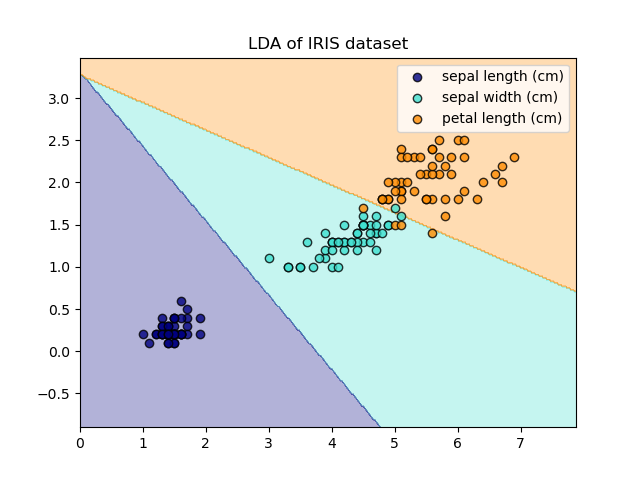
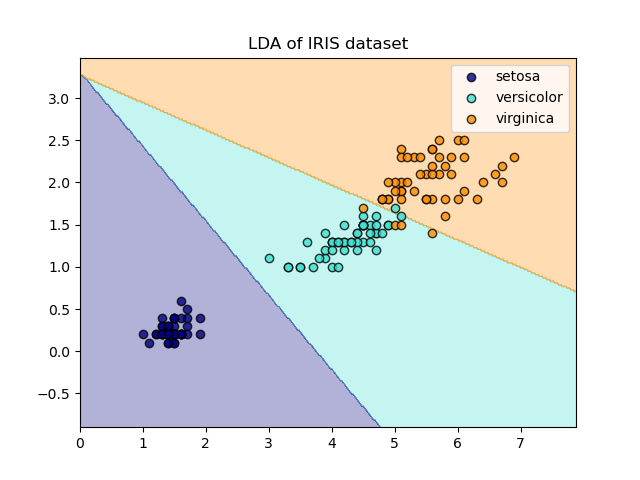
Ajustes nos labels

Changed region(s): [[0.5938, 0.125, 0.875, 0.2812]]

diff --git a/Exercicio 7/Aprendizado_Estatistico.py b/Exercicio 7/Aprendizado_Estatistico.py
@@ -34,7 +34,7 @@ def last_square(X_train, X_test, y_train, y_test):
 
 
 ############### PCA Utilizando dois componentes principais ######################
-def pca(X, y,features):
+def pca(X, y,features, label_names):
     print("PCA")
     plt.figure()
 
@@ -52,7 +52,7 @@ def pca(X, y,features):
     n = coeficiente.shape[0]
 
     # Plot do gráfico resultante do PCA
-    for color, i, target_name in zip(['navy', 'turquoise', 'darkorange'], [0, 1, 2], features):
+    for color, i, target_name in zip(['navy', 'turquoise', 'darkorange'], [0, 1, 2], label_names):
         plt.scatter(X_r[y == i, 0], X_r[y == i, 1],  alpha=.8, color=color, lw=2,
                 label=target_name,edgecolors='black')
     
@@ -69,7 +69,7 @@ def pca(X, y,features):
 
 
 ############### LDA Utilizando dois componentes principais ######################
-def lda(X, y, target_names):
+def lda(X, y, target_names, label_names):
     print("LDA")
     lda = LinearDiscriminantAnalysis(n_components=2)
     X_r2 = lda.fit(X, y)
@@ -92,14 +92,14 @@ def lda(X, y, target_names):
     plt.contourf(xp_lda, yp_lda, pred_lda, alpha = 0.3, cmap=cmap)
     
     # Plot do gráfico resultante do LDA
-    for color, i, target_name in zip(colors, [0, 1, 2], target_names):
+    for color, i, target_name in zip(colors, [0, 1, 2], label_names):
         plt.scatter(X[y == i, 0], X[y == i, 1], alpha=.8, color=color,
                     label=target_name, edgecolors='black')
     plt.legend(loc='best', shadow=False, scatterpoints=1)
     plt.title('LDA of IRIS dataset')
     
 ############### SVM Utilizando dois componentes principais ######################   
-def svm_classifier(X, y, target_names):
+def svm_classifier(X, y, target_names, label_names):
     print("SVM")
     plt.figure()
 
@@ -122,10 +122,9 @@ def svm_classifier(X, y, target_names):
     plt.contourf(xp_svm, yp_svm, pred_svm, alpha = 0.3, cmap=cmap)
 
 
-    for color, i, target_name in zip(colors, [0, 1, 2], target_names):
+    for color, i, target_name in zip(colors, [0, 1, 2], label_names):
         plt.scatter(X[y == i, 0], X[y == i, 1],  color=color, label=target_name, edgecolors='black')
-    
-    print(target_names)
+
     plt.xlabel(target_names[2])
     plt.ylabel(target_names[3])
 
@@ -139,7 +138,7 @@ def main():
     
     data=iris.data
     features = iris.feature_names
-
+    print(iris.target_names)
     iris_df = pd.DataFrame(data, columns = features)
     iris_df['class'] = iris['target']
 
@@ -154,9 +153,9 @@ def main():
 
 
     last_square(X_train, X_test, y_train, y_test)
-    pca(X_train, y_train, features)
-    lda(iris_df.iloc[:,2:4].values, iris_df['class'].values, features)
-    svm_classifier(iris_df.iloc[:,2:4].values, iris_df['class'].values, features)
+    pca(X_train, y_train, features,iris.target_names)
+    lda(iris_df.iloc[:,2:4].values, iris_df['class'].values, features,iris.target_names)
+    svm_classifier(iris_df.iloc[:,2:4].values, iris_df['class'].values, features,iris.target_names)
     
     plt.show()
 
